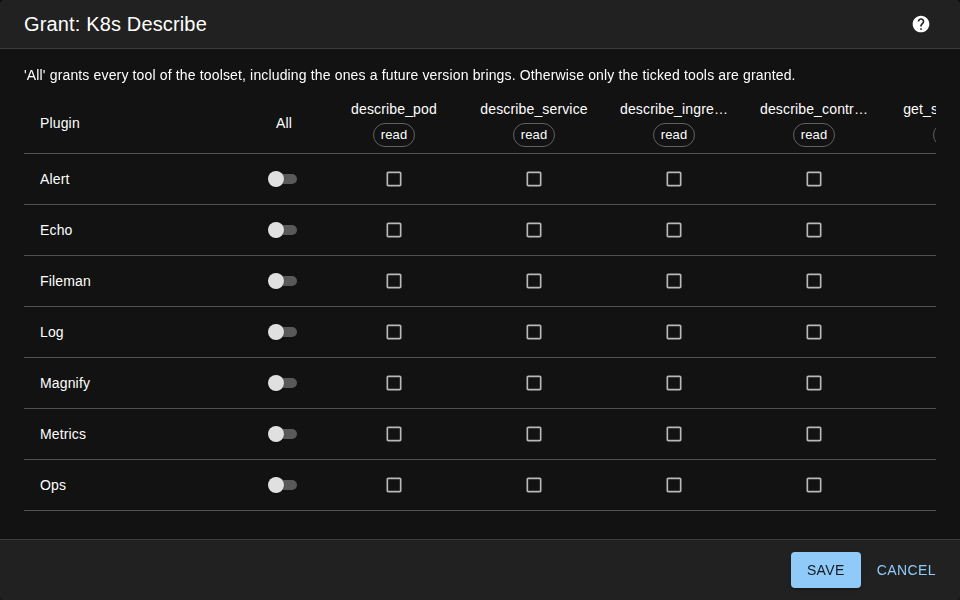
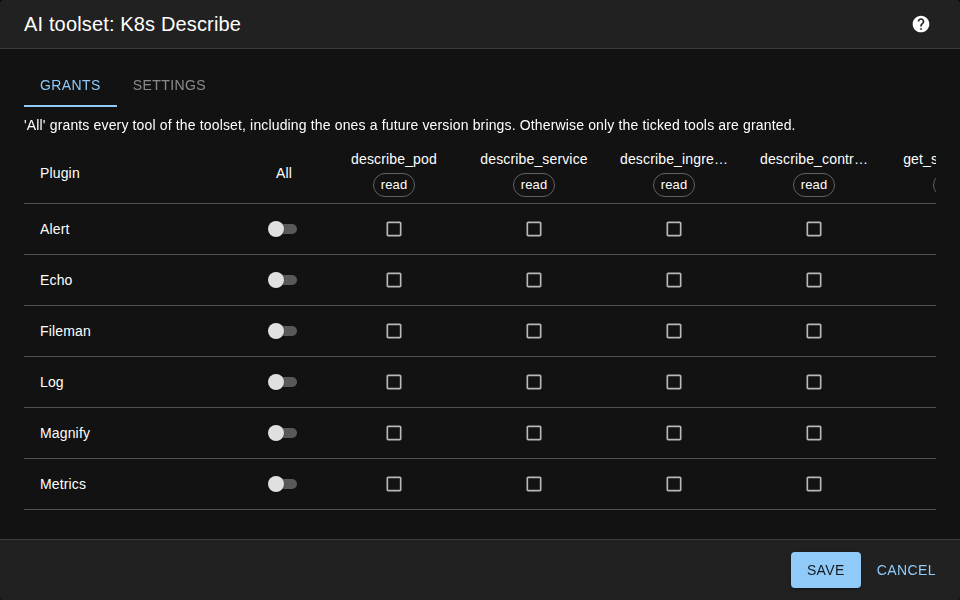
docs(core,tools): extension config — toolset settings, keep-on-uninstall, validation, uniform export; the toolset scaffold shows configSchema

diff --git a/front/e2e/tests/capture-managers.spec.ts b/front/e2e/tests/capture-managers.spec.ts
@@ -1,5 +1,7 @@
 import { test, expect, Page, Locator } from '@playwright/test'
-import { readFileSync } from 'fs'
+import { readFileSync, mkdtempSync, writeFileSync } from 'fs'
+import { execFileSync } from 'child_process'
+import os from 'os'
 import path from 'path'
 import { login, clickExtensionMenuItem, dismissOpenDialogs, GUIDE_MEDIA, capturePedida } from './helpers'
 
@@ -246,4 +248,64 @@ test('capture extension tags filter (dark, solo catalogo publico)', async ({ pag
 
     const restored = (await readSettings(page, s)).marketplaces ?? []
     expect(JSON.stringify(restored)).toBe(JSON.stringify(original))
+})
+
+/*
+    The AI toolset's SETTINGS tab (plans/extension-config, S9). No published toolset declares settings yet,
+    so a neutral one written here —the guide's own example, 'My Deployer'— is uploaded, shot with sample
+    values (nothing saved: Cancel) and uninstalled with its configuration. The environment is left as found.
+*/
+const SETTINGS_FILE = 'aitoolset-settings.png'
+const SETTINGS_ID = 'my-deployer'
+
+const settingsToolsetTgz = (): string => {
+    const dir = mkdtempSync(path.join(os.tmpdir(), 'kwirth-capture-ts-'))
+    writeFileSync(path.join(dir, 'package.json'), JSON.stringify({ id: SETTINGS_ID, name: '@acme/kwirth-aitoolset-my-deployer', displayName: 'My Deployer', version: '0.1.0', description: 'Deploys images to the configured namespace', extensionType: 'aitoolset' }))
+    writeFileSync(path.join(dir, 'back.js'), `module.exports.default = {
+        id: '${SETTINGS_ID}', version: '0.1.0', displayName: 'My Deployer', description: 'Deploys images to the configured namespace', requires: [],
+        configSchema: [
+            { name: 'namespace', label: 'Target namespace', required: true, default: 'apps' },
+            { name: 'mode', label: 'Mode', type: 'select', options: ['plan', 'apply'], default: 'plan' },
+            { name: 'registryToken', label: 'Registry token', type: 'password' }
+        ],
+        tools: [{ name: 'deploy', description: 'Deploys an image', effect: 'write', sensitivity: 'internal', inputSchema: {}, execute: async () => ({}) }]
+    }`)
+    const tgz = `${dir}.tgz`
+    execFileSync('tar', ['-czf', tgz, '-C', dir, '.'])
+    return readFileSync(tgz).toString('base64')
+}
+
+test('capture AI toolset settings tab (dark)', async ({ page }) => {
+    test.skip(!pedida(SETTINGS_FILE), 'not asked for')
+    await page.setViewportSize({ width: 1600, height: 900 })
+    await page.addInitScript(() => { try { localStorage.setItem('kwirth.mode', 'dark') } catch { /* */ } })
+    const s = await captureSession(page)
+    const installed = await page.evaluate(async ([b, a]) => (await (await fetch(`${b}/core/aitoolsets`, { headers: { Authorization: a } })).json() as { id: string }[]).map(t => t.id), [s.backend, s.auth])
+    expect(installed, `'${SETTINGS_ID}' must not be installed before`).not.toContain(SETTINGS_ID)
+    const up = await page.evaluate(async ([b, a, data]) => {
+        const bytes = Uint8Array.from(atob(data), c => c.charCodeAt(0))
+        return (await fetch(`${b}/core/aitoolsets/upload`, { method: 'POST', headers: { Authorization: a, 'Content-Type': 'application/octet-stream' }, body: bytes })).status
+    }, [s.backend, s.auth, settingsToolsetTgz()])
+    expect(up).toBe(200)
+    try {
+        await clickExtensionMenuItem(page, 'AI toolsets')
+        const manager = page.getByRole('dialog').filter({ hasText: /Manage AI toolsets/i })
+        await manager.waitFor({ timeout: 20000 })
+        await manager.getByPlaceholder('Filter…').first().fill('My Deployer')
+        await page.waitForTimeout(400)
+        await manager.locator('span[aria-label="Configure"] button').first().click()
+        const dlg = page.getByRole('dialog').filter({ hasText: 'AI toolset: My Deployer' })
+        await dlg.waitFor({ timeout: 20000 })
+        await dlg.getByRole('tab', { name: 'Settings', exact: true }).click()
+        await dlg.getByLabel(/^Target namespace/).fill('payments')
+        await dlg.getByLabel(/^Registry token/).fill('example-token')
+        await page.mouse.move(0, 0)
+        await page.waitForTimeout(800)
+        await dlg.screenshot({ path: `${MEDIA}/${SETTINGS_FILE}` })
+        await dlg.getByRole('button', { name: 'Cancel' }).click()
+        await dismissOpenDialogs(page)
+    }
+    finally {
+        await page.evaluate(async ([b, a, id]) => { await fetch(`${b}/core/aitoolsets/${id}?deleteConfig=true`, { method: 'DELETE', headers: { Authorization: a } }) }, [s.backend, s.auth, SETTINGS_ID])
+    }
 })

diff --git a/front/src/components/extensions/AiToolsetDialog.tsx b/front/src/components/extensions/AiToolsetDialog.tsx
@@ -1,6 +1,6 @@
 import React, { useContext, useEffect, useState } from 'react'
 import {
-    Box, Button, Checkbox, Chip, CircularProgress, Dialog, DialogActions, DialogContent, Switch, Tab, Table, TableBody,
+    Box, Button, Checkbox, Chip, CircularProgress, Dialog, DialogActions, DialogContent, Stack, Switch, Tab, Table, TableBody,
     TableCell, TableContainer, TableHead, TableRow, Tabs, Tooltip, Typography
 } from '@mui/material'
 import { DialogTitleHelp, docsUrl } from '@kwirthmagnify/kwirth-common-front'
@@ -277,10 +277,11 @@ const AiToolsetDialog: React.FC<IAiToolsetDialogProps> = (props: IAiToolsetDialo
 
                 {/* SETTINGS: a column of fixed width that scrolls inside */}
                 <Box sx={{ flex: 1, minHeight: 0, overflow: 'auto', display: loading || tab !== EAiToolsetDialogTab.SETTINGS ? 'none' : 'block' }}>
-                    <Box sx={{ width: SETTINGS_COL_WIDTH, maxWidth: '100%', pt: 1 }}>
+                    {/* a Stack, as in ConfigFormDialog: ConfigFields hands its fields loose and the spacing is the caller's */}
+                    <Stack spacing={2} sx={{ width: SETTINGS_COL_WIDTH, maxWidth: '100%', pt: 1 }}>
                         <ConfigFields schema={schema} values={settings} onChange={setSetting} invalidFields={fieldErrors.map(e => e.field)} />
                         { fieldErrors.length > 0 && <Typography variant='caption' color='error' data-testid='config-field-errors'>{fieldErrors.map(e => e.message).join('. ')}</Typography> }
-                    </Box>
+                    </Stack>
                 </Box>
 
                 { error && <Typography color='error' variant='body2' sx={{ mt: 1 }}>{error}</Typography> }

diff --git a/docs/0.6.31/guide/extensions/aitoolsets/index.md b/docs/0.6.31/guide/extensions/aitoolsets/index.md
@@ -56,7 +56,8 @@ execute: async (args, host) => {
 
 | Declared | The tool receives |
 |---|---|
-| *(nothing)* | `host.trace` only |
+| *(nothing)* | `host.trace` and `host.config` only |
+| `configSchema` (not a capability) | `host.config` — the toolset's **settings** as the admin saved them, defaults applied; `{}` when it declares none. See [Settings](#settings-how-the-toolset-behaves-here) |
 | `ECapability.K8S` | `host.k8s` — cluster name, flavour, vCPUs, memory, the node map, and the `CoreV1Api`, `AppsV1Api` and `NetworkingV1Api` clients |
 | `ECapability.METRICS` | `host.metrics` — the metric samples kwirth keeps in memory |
 | `ECapability.EVENTS` | `host.events` — the recent cluster-event buffer |
@@ -103,7 +104,7 @@ the common flow. Three details are specific to this family:
 |---|---|
 | **tools chip** | How many tools the toolset actually **brought into the running core**, not how many its package claims. A toolset whose code failed to load shows **no** chip rather than an inflated number. |
 | **plugins chip** | How many plugins are granted **at least one** of its tools — `No plugin` when nobody is. A plugin whose grant was emptied does not count. |
-| **⚙ settings** | Opens the toolset's **grant**: which plugins may use it, and which of its tools each one (see [Granting](#granting-installing-is-not-giving)). It is the only decision taken here. *Which* of the granted toolsets a channel actually uses, in what order, and which tools it switches off, is decided per channel. |
+| **⚙ settings** | Opens the toolset's dialog, **AI toolset: *name***, with two tabs: **Grants** — which plugins may use it, and which of its tools each one (see [Granting](#granting-installing-is-not-giving)) — and **Settings** — how the toolset behaves in this installation (see [Settings](#settings-how-the-toolset-behaves-here)). *Which* of the granted toolsets a channel actually uses, in what order, and which tools it switches off, is decided per channel. |
 
 Installing from a URL or a local file works exactly as in the other families: paste the package URL and click
 ⬇, or use **Browse…** to upload a `.tgz`.
@@ -126,10 +127,11 @@ the fact rather than failing silently.
 > to answer in seconds, and here you answer it by looking at **who has been granted `k8s-ops`** — one line,
 > one dialog. That is why the grants are held per toolset and not scattered across each channel's settings.
 
-### The grant dialog
+### The Grants tab
 
 ![AI toolset grant](../../../_media/guide/aitoolset-grant.png)
-*One row per installed plugin, one column per tool of the toolset, each with its effect (`read` / `write`).*
+*The toolset's dialog opens on **Grants**: one row per installed plugin, one column per tool of the toolset,
+each with its effect (`read` / `write`).*
 
 For each plugin you choose one of two ways of granting:
 
@@ -148,7 +150,8 @@ in the same toolset, and the grant tells them apart.
   can still be taken away.
 - If a new version of the toolset drops or renames a tool that was granted, it appears in a column of its own,
   struck through and marked *removed*: it is ignored while it is there, and saving removes it from the grant.
-- Nothing is applied until **Save**; **Cancel** leaves the grant as it was.
+- Nothing is applied until **Save**; **Cancel** leaves the grant as it was. Save and Cancel cover **both**
+  tabs: one Save stores what changed in Grants and in Settings, one Cancel discards both.
 
 Three consequences worth knowing before you grant:
 
@@ -158,16 +161,54 @@ Three consequences worth knowing before you grant:
   upgrade is usually a plugin whose grants nobody has set.
 - **Revoking is immediate and needs no restart.** Take the grant away and the next bot run is offered fewer
   tools. Nothing is cached behind your back.
-- **Updating a toolset keeps its grants; uninstalling clears them.** Installing a newer version of a toolset
-  —or rebuilding one you are developing— leaves untouched who may use it: the grant belongs to the toolset
-  *id*, not to the version you happened to install. Only a plugin granted with **All** picks up the tools
-  the new version adds. Uninstalling is the opposite and does clear it, so that installing something again
-  later never resurrects permissions nobody re-granted.
+- **Updating a toolset keeps its grants.** Installing a newer version of a toolset —or rebuilding one you
+  are developing— leaves untouched who may use it: the grant belongs to the toolset *id*, not to the version
+  you happened to install. Only a plugin granted with **All** picks up the tools the new version adds.
+- **Uninstalling keeps them too, unless you ask.** The uninstall confirmation carries the box **Also delete
+  its configuration**, unticked. Left unticked, the toolset's grants **and** its settings are kept: while it
+  is not installed nobody can use it, and installing it again brings both back exactly as they were. Ticked,
+  both are deleted, and a later install starts as a first one — granted to nobody, settings at their
+  defaults. Tick it when you are removing a toolset for good, so that installing it again some day does not
+  hand its tools back to the plugins that had them.
 
 > ⚠ **Upgrading from a Kwirth with whole-toolset grants.** Grants used to be *toolset → plugins*, with no
 > choice of tools. That format is **not** migrated: after the upgrade every toolset reads **No plugin** and
 > AI channels have no tools until you grant them again in this dialog. The core logs a warning for each
 > grant it discarded.
+
+## Settings: how the toolset behaves here
+
+Some toolsets need to know something about **this installation** before their tools are useful — which
+namespace they may deploy to, whether they only plan or also apply, a token for a service they call. That
+is the toolset's **settings**: **one** configuration per installed toolset, global to the whole Kwirth, the
+same for every plugin it is granted to.
+
+![AI toolset settings](../../../_media/guide/aitoolset-settings.png)
+*The **Settings** tab draws the fields the toolset declares, with their defaults until you save anything.*
+
+- **What you see is what the toolset declares.** The form is built from the toolset's own list of settings,
+  with the same kinds of field as every other configuration in Kwirth — text, numbers, switches, lists,
+  passwords. A toolset that declares none shows the tab **greyed out**, and hovering it says *"This
+  toolset declares no settings"*.
+- **Never saved means the defaults.** Until you save, the tools work with the defaults the toolset declares,
+  and the form shows them.
+- **Passwords and tokens come back as they are**, masked: the eye shows the value already saved, so you
+  can check it without typing it again.
+- **Required fields.** While one is empty, **Save** stays greyed out and its tooltip names the fields that
+  are missing. Anything else the toolset refuses is marked in red on its field, the tab reads
+  **Settings (errors)**, and the dialog stays open so you can fix it. Nothing is stored until it fits.
+- **It applies at once.** The tools read their settings on **every** call: what you save is in force from
+  the next one, without restarting anything.
+
+> ⚠ **Settings are not a security control.** They tell a well-behaved toolset how to behave, and it is the
+> toolset that applies them. What does not depend on how a toolset was written is the **grant**: if a plugin
+> must not change your cluster, do not grant it the tools that do — do not rely on a setting saying
+> *"plan only"*.
+
+The settings are kept in **one Secret per toolset** (`kwirth-aitoolset-<id>-config`), the way every other
+extension keeps its configuration. They travel in **☰ Kwirth export** next to the toolset's grants, with the
+passwords emptied unless you include credentials. Uninstalling keeps them unless you tick **Also delete its
+configuration** (see [above](#granting-installing-is-not-giving)).
 
 ## Where tools are switched on
 
@@ -276,6 +317,48 @@ export default myToolset
 The `description` of each tool is not decoration: it is what the **model** reads to decide whether to call the
 tool, so write it for the model, not for a developer.
 
+### Settings: `configSchema` and `host.config`
+
+A toolset that needs settings declares them in `configSchema`, with the same field definitions
+(`IConfigFieldDef`) every Kwirth extension uses, and each tool reads them from `host.config`:
+
+```ts
+const myToolset: IAiToolset = {
+    id: 'my-deployer',
+    // ...
+    requires: [ECapability.K8S],
+    configSchema: [
+        { name: 'namespace', label: 'Target namespace', required: true, default: 'apps' },
+        { name: 'mode', label: 'Mode', type: 'select', options: ['plan', 'apply'], default: 'plan' },
+        { name: 'registryToken', label: 'Registry token', type: 'password' }
+    ],
+    tools: [
+        defineTool({
+            name: 'deploy',
+            description: 'Deploys an image to the configured namespace.',
+            effect: EToolEffect.WRITE,
+            sensitivity: EToolSensitivity.INTERNAL,
+            inputSchema: z.object({ image: z.string() }),
+            execute: async (args, host) => {
+                const namespace = String(host.config.namespace)     // what the admin saved, or the default
+                if (host.config.mode !== 'apply') return { plan: `would deploy ${args.image} to ${namespace}` }
+                // ... apply it
+            }
+        })
+    ]
+}
+```
+
+- `host.config` is **always there**: the saved values with the defaults applied, or `{}` when the toolset
+  declares no `configSchema`. Like `trace`, it is not a capability and needs no `requires`.
+- It is read on **every** call, so the tool must not cache it: what the admin saves applies from the next one.
+- Each call gets its **own copy**: a tool that changes it changes nothing for the next one.
+- What does not fit the schema is refused when saving, so a tool can rely on required fields being there.
+  Still, read them defensively: a newer toolset version may add a field that an older saved configuration
+  does not have yet — that is what `default` is for.
+- Mark secrets as `type: 'password'` (or `secret: true` on a multi-line field): the dialog masks them and
+  ☰ Kwirth export empties them unless credentials are included.
+
 Common packages (`kwirth-common`, `kwirth-common-ai`, `zod`) must **not** be bundled — the core serves them
 through its back global, so that the toolset uses exactly the same registry and the same `zod` as kwirth
 itself.
@@ -294,6 +377,17 @@ Point `kwirth-dev.json` at the build folder, as with any other extension:
 
 A toolset loaded this way shows a **`dev`** badge, cannot be uninstalled from the manager (the file governs it,
 not the dialog), and disappears when you remove it from `kwirth-dev.json` and restart the core.
+
+Its settings can be given in the same file, with `${VAR}` replaced from the environment. They live in memory
+only, **win over** whatever was saved from the dialog, and are never written anywhere:
+
+```json
+{
+    "aitoolsetConfigs": {
+        "my-deployer": { "namespace": "dev-apps", "mode": "apply", "registryToken": "${REGISTRY_TOKEN}" }
+    }
+}
+```
 
 ## Available toolsets
 

diff --git a/docs/0.6.31/changelog.md b/docs/0.6.31/changelog.md
@@ -18,6 +18,11 @@ Minor but powerful features:
   - **Metrics and events leave the core.** The **Metrics** channel is now a plugin, and the **Metrics** and **Events** providers are installable extensions (`@kwirthmagnify/kwirth-provider-metrics`, `@kwirthmagnify/kwirth-provider-events`). Both come installed in the `-readonly` / `-full` images and the desktop, the plugins that live on them declare them as requirements, and Magnify says so in its overview when one is missing instead of drawing nothing. In a cluster the core no longer carries any provider of its own.
   - **Providers can be read, not only subscribed to**: `IProvider.getData(request)` (with `getDataHelp()` describing the request), asked through the provider handle. Magnify reads its events feed this way. `kwirth-common-back` also gains `createResourceWatcher`, the reconnecting Kubernetes watch the events provider uses.
   - **More of the core in the common packages**, ahead of Magnify becoming a plugin. `kwirth-common-back` (0.6.4) carries the cluster operations Magnify runs — scale, restart, cordon, drain, evict, a shell or a work pod on a node, cron jobs, the default IngressClass, purging an image from every node — and `kwirth-common-front` (0.5.66) the icon of every Kubernetes kind (`getIconFromKind`) and the safe way to draw a channel's icon or open another channel (`getChannelIconSafe`, `getChannelIconOf`, `createChannelInstance`). Any extension can use them, and at runtime they are the core's copy, so nothing is bundled twice.
+  - **One configuration store for every extension.** Plugins, providers, routers, logins, identity providers, senders, webhooks and AI toolsets keep their configuration the same way: **one Kubernetes Secret per extension** (`kwirth-<type>-<id>-config`), all of it, not only the passwords. What is saved is **checked against what the extension declares**: while a required field is empty **Save** stays greyed out and says which, and anything else refused is marked in red on its field, with nothing stored. ⚠ No migration: configuration saved by an older kwirth in the old ConfigMaps (and the shared `kwirth-idps`, `kwirth-sender-configs`, `kwirth-webhook-configs`) is not read; enter it again or bring it with *Kwirth import*. `kwirth-common` brings `IConfigValidationError`, `applyConfigDefaults`, `pruneConfig` and `validateConfig`. See [Extending kwirth](guide/admin/08-extending-kwirth?id=install-configure-remove).
+  - **Uninstalling keeps the configuration unless you ask.** The uninstall confirmation of every family that keeps one carries **Also delete its configuration**, unticked: left so, reinstalling the extension later finds its configuration as it was — a webhook keeps its URLs, an AI toolset its settings **and its grants** (it used to lose the grants). The API takes `?deleteConfig=true`.
+  - **Webhooks keep a base configuration.** The common fields a webhook declares are stored (they were lost) and reach the webhook with each of its configurations; saving the base keeps every URL.
+  - **Kwirth export, the same for every family.** Without credentials, secrets are emptied in every family — providers and plugins included, which used to go out in clear. Routers and logins now travel too, and so does a webhook's base configuration. Only what was **saved** travels: an extension nobody configured carries nothing, not even its defaults.
+  - **AI toolset settings.** A toolset declares `configSchema` and the admin fills it in from a new **Settings** tab, beside **Grants**, in the toolset's dialog (**AI toolset: *name***) — one Save for both. Every tool gets the values as `host.config` on **every** call, so a change applies from the next one without a restart; `kwirth-dev.json` takes `aitoolsetConfigs`. Settings are not a security control: the grant is. `kwirth-common-ai` (0.5.81) brings `IAiToolsetInfo.configSchema`, `IToolHost.config` and `TAiToolsetConfig`. See [AI toolsets](guide/extensions/aitoolsets/index?id=settings-how-the-toolset-behaves-here).
 
   - Pinocchio is now running working with several LLM's through [AI-SDK from Vercel](https://ai-sdk.dev/docs/introduction). It has been tested with OpenRouter, Gemini and Groq. This very first version just audits Kubernetes objects upon creation, but only for information.
   - Improved channel management on front (now added 'cluster' view again).

diff --git a/docs/0.6.31/guide/admin/08-extending-kwirth.md b/docs/0.6.31/guide/admin/08-extending-kwirth.md
@@ -66,7 +66,11 @@ Every family uses the same manager UI, so once you learn one you know them all:
 ## Install, configure, remove
 
 1. **Install** — from **Available** click an item, or paste its URL / **BROWSE…** a file under **Install**.
-2. **Configure** — click **⚙ Settings** on the card. What opens depends on what the extension declares: a **typed form** (one set of fields), a **list of named configurations** (several destinations, several accounts — with a shared *base configuration* when the extension has settings common to all of them, and export/import to carry them to another kwirth), a **JSON editor**, or a **UI the extension provides itself**. If the gear is **greyed out**, that extension has nothing to configure — it is not a failure. Configuration (including secrets, shown masked behind an eye toggle) is stored in Kubernetes secrets/configmaps.
+2. **Configure** — click **⚙ Settings** on the card. What opens depends on what the extension declares: a **typed form** (one set of fields), a **list of named configurations** (several destinations, several accounts — with a shared *base configuration* when the extension has settings common to all of them), a **JSON editor**, or a **UI the extension provides itself**. If the gear is **greyed out**, that extension has nothing to configure — it is not a failure.
+
+   Wherever it is edited, an extension's configuration is kept in **one Kubernetes Secret per extension**, named `kwirth-<type>-<id>-config` — all of it, not only the passwords, because any field can turn out to be a credential. Secrets come back into the form as they are, masked behind an **eye** toggle, so you can check them without typing them again. To carry configuration to another kwirth, use **☰ Kwirth export** (see [Initial configuration](02-initial-config)).
+
+   **What is saved is checked first.** Every form is checked against what the extension declares: while a **required** field is empty, **Save** stays greyed out and its tooltip names the fields that are missing; anything else the extension refuses — a value outside its list, text where a number goes — is marked in **red** on its field, with the reason underneath, and the dialog stays open. Nothing is stored until it fits.
 
    Two things you will meet in that typed form:
 
@@ -84,7 +88,11 @@ Every family uses the same manager UI, so once you learn one you know them all:
      still counts.
 3. **Enable / disable** — many extensions have an enabled toggle in their settings; disabled ones stay installed but inactive.
 4. **Update** — click the **⬆** icon on the card when it offers a newer version. See below: it is not a reinstall, and it keeps your configuration.
-5. **Remove** — click the delete icon on the card.
+5. **Remove** — click the delete icon on the card. For the families that keep a configuration — plugins, providers, routers, logins, identity providers, senders, webhooks and AI toolsets — the confirmation carries a box, **Also delete its configuration**, **unticked**:
+   - **Unticked** (the default): the extension goes, but its configuration Secret **stays**. Installing the same extension again later picks it up exactly as it was — a sender with its destinations, a webhook with the **same URLs** (nothing to paste again at the system that calls it), an AI toolset with its settings and its grants.
+   - **Ticked**: the configuration is deleted with it, and a later install starts from scratch. Tick it when you are removing an extension for good.
+
+   A pack's confirmation carries the same box, and it applies to every member the pack removes. The families with nothing to keep (themes, homepages, documentation, DCEs) do not show it.
 
 > **Channels are plugins.** Installing a plugin is exactly how you add or remove the channels users see in the [resource selector](../user/04-selecting-resources). Install the Log plugin and the **Log** channel appears; remove it and it's gone.
 

diff --git a/docs/0.6.31/guide/admin/02-initial-config.md b/docs/0.6.31/guide/admin/02-initial-config.md
@@ -152,11 +152,11 @@ With **SQL configured**, the counters are in the database and survive a restart.
 
 It carries kwirth's own settings — metrics interval, log levels, marketplaces and package registries — the shared AI providers and models, and **what each extension stores**: its rules, its connections, whatever it considers its own configuration. Kwirth does not look inside: each extension decides what of its own travels, which is why an extension that has not adopted that contract yet appears in the list with the reason instead of silently going missing.
 
-An extension's entry actually has **two halves**, and it is worth knowing which is which. One is what *kwirth* keeps about it — the configuration you edit from its **Configure** cog, a sender's sending configurations, an identity connector's instances — and the other is what the *extension* keeps on its own account, in its own store. Most of the first half travels from the day an extension is installed, without its author having done anything; the second only travels if the extension implements it.
+An extension's entry actually has **two halves**, and it is worth knowing which is which. One is what *kwirth* keeps about it — the configuration you edit from its **Configure** cog (plugins, providers, routers and logins alike), a sender's or webhook's named configurations together with their shared base, an identity connector's instances, an AI toolset's grants and settings — and the other is what the *extension* keeps on its own account, in its own store. Most of the first half travels from the day an extension is installed, without its author having done anything; the second only travels if the extension implements it. Of the first half, only what was **saved** travels: an extension nobody configured carries nothing, not even its defaults, so importing never configures at the destination something nobody configured at the source.
 
 That split is why some entries appear in **amber**, saying that only their installation configuration will travel. It means kwirth has the first half and could not ask for the second, because that extension is not running in this installation — a channel hosted by a *different* kwirth, or a provider that nothing is using here. The entry is still exported, because leaving it out would lose the half kwirth does have, but the file will not say what is missing from it. So the warning is shown **before** you export, not after.
 
-Credentials are **left out unless you tick them**. A file with tokens and passwords inside ends up in somebody's downloads folder, so by default the secret fields travel **empty** rather than omitted — the destination can then see which ones it has to fill in. Note what that means for the AI entries, where the secret is the whole point of some of them: leaving the tick off never removes a provider or a model from the file, it only blanks its key. Everything else — the name, the type, the Base URL, the default costs, the usage limits — travels either way.
+Credentials are **left out unless you tick them**. A file with tokens and passwords inside ends up in somebody's downloads folder, so by default the secret fields travel **empty** rather than omitted — the destination can then see which ones it has to fill in. That holds for every kind of extension alike, the passwords of providers and plugins included. Note what that means for the AI entries, where the secret is the whole point of some of them: leaving the tick off never removes a provider or a model from the file, it only blanks its key. Everything else — the name, the type, the Base URL, the default costs, the usage limits — travels either way.
 
 This is the **only** way the AI providers and models move between installations: their dialogs have no import/export of their own, precisely so that there is a single door onto a single store.
 

diff --git a/docs/0.6.31/configportability.md b/docs/0.6.31/configportability.md
@@ -58,11 +58,17 @@ the core, and the extension never even sees it:
 
 | What | Who keeps it |
 |---|---|
-| A sender's or webhook's **send configurations** | the core |
+| A sender's or webhook's **named configurations**, and its shared **base configuration** | the core |
 | An identity provider's **configured instances** | the core |
-| An AI toolset's **grants** | the core |
-| A plugin's or provider's **installation configuration** | the core |
+| An AI toolset's **grants** and its **settings** | the core |
+| A plugin's, provider's, router's or login's **configuration** — what you edit from its ⚙ | the core |
 | Anything the extension stores on its own | the extension |
+
+Of the core's part, **only what was saved** travels. An extension nobody ever configured carries nothing,
+not even its defaults: importing defaults would *configure* it at the destination, and some extensions —
+a cloud provider, for instance — start connecting as soon as they are configured. A login carries only what
+the admin edited, not the defaults that come inside its package, so a newer package at the destination is
+not overridden by the old one's values.
 
 A sender cannot list its own configurations, and an IdP connector cannot enumerate its instances — one
 connector can have several, and each instance points at the connector, not the other way round. So the
@@ -74,7 +80,7 @@ database, in their own store — join in too, and then both halves travel togeth
 
 ## Exporting
 
-**Settings → Kwirth → Export.** You get one list with everything that can travel, all ticked:
+**☰ → Kwirth export.** You get one list with everything that can travel, all ticked:
 
 - **Settings** — metrics interval, marketplaces, package registries. These carry **what is on the form
   right now**, including changes you have not accepted yet.
@@ -110,13 +116,20 @@ The **Include credentials** box is **unticked by default**, and that is on purpo
 somebody's downloads folder.
 
 - **Unticked** — secret fields travel **empty**, not missing. The destination can therefore tell you
-  which ones need filling in.
+  which ones need filling in. This applies to every family alike — plugins, providers, routers, logins,
+  senders and webhooks (their base configuration and each named one), IdP instances and AI toolset
+  settings. What counts as secret is what the extension declares as such (a password, or a field marked
+  secret). An extension that declares nothing about its fields cannot say which of them is a password, so
+  its values **do not travel at all** without credentials, and importing the file says so.
+- ⚠ **Importing a file exported without credentials writes those fields empty.** What is in the file is
+  what gets saved: an empty password does not mean *"keep the one you have"*. To re-import onto the same
+  kwirth without losing secrets, export **with** credentials.
 - **Ticked** — tokens and passwords are written in clear text. The file declares in its metadata that it
   carries them, so whoever opens it later knows what they are holding. Treat it as a secret.
 
 ## Importing
 
-**Settings → Kwirth → Import**, pick the file, and before anything is touched kwirth shows you **what
+**☰ → Kwirth import**, pick the file, and before anything is touched kwirth shows you **what
 each line would do**:
 
 | Status | What happens |

diff --git a/plans/extension-config/PLAN.md b/plans/extension-config/PLAN.md
@@ -223,7 +223,7 @@ Orden pensado para que cada stream deje el sistema funcionando y se pueda valida
 | **S7. Export/import** ✅ | redacción en todas las familias; router y login en el bundle (si P1 = sí). Hecho: una sola redacción (`redactSecretFields`, ConfigFieldSecrets); plugin, provider, router y login comparten adaptador y viajan como `installConfig`, **solo lo guardado** (sin guardar no viaja nada, ni defaults; el de login, solo lo del admin, no `login.json`); sin esquema y sin credenciales → `omitted` + aviso al importar; un `saveConfig` que lanza es un aviso. El webhook viaja como `stored: {...base, configs}` y se siguen leyendo los ficheros con `configs` sueltos | unit de `CoreManagedConfig` por familia: con y sin credenciales, ida y vuelta | S2-S6 |
 | **S8. Toolsets: contrato y core** ✅ (common-ai 0.5.81; P5 = desinstalar sin la casilla conserva configuración Y concesiones, y reinstalar las devuelve; export `{ grants, config }` / `configOmitted`; `buildToolHost` gana un 4º parámetro `config`) | `configSchema`, `host.config`, `setToolsetConfig`, endpoints, ciclo de vida, `aitoolsetConfigs`, export. Publicar `kwirth-common-ai` (bbp) | unit: toolset sin esquema → `{}`; con esquema → defaults; guardar → la siguiente llamada ve el valor; desinstalar con `deleteConfig` borra configuración y concesiones, sin él las conserva (P5) | S1, S7 |
 | **S9. Toolsets: diálogo** ✅ | `AiToolsetDialog` con pestañas. Hecho: un solo Save (concesiones primero, luego settings); el tooltip de Settings deshabilitada va con `describeChild`, para que su nombre accesible siga siendo "Settings" | e2e: pestaña deshabilitada sin esquema; formulario, guardar, recargar; error de validación en el campo; concesiones como antes | S8 |
-| **S10. Documentación y scaffolder** | guía de toolsets (pestaña Settings, cómo declarar `configSchema` y leer `host.config`); capturas regeneradas; el scaffolder genera un `configSchema` de ejemplo comentado | revisión de la guía; build del scaffolder con y sin esquema | S9 |
+| **S10. Documentación y scaffolder** ✅ (además: P5, validación al guardar, export homogéneo y rutas ☰ de export/import en la guía del core; Save deshabilitado con obligatorios vacíos en TODOS los diálogos de configuración) | guía de toolsets (pestaña Settings, cómo declarar `configSchema` y leer `host.config`); capturas regeneradas; el scaffolder genera un `configSchema` de ejemplo comentado | revisión de la guía; build del scaffolder con y sin esquema | S9 |
 
 | **S11. Limpieza de los clusters** | en cada cluster con un Kwirth de dev, borrar los objetos huérfanos: `kwirth-provider-*-config`, `kwirth-plugin-*-config`, `kwirth-sender-configs`, `kwirth-webhook-configs` (ConfigMaps) y `kwirth-idps` (Secret) | listado de lo huérfano confirmado con el usuario antes de borrar; los `kwirth-<tipo>-<id>-config` de extensiones no instaladas se listan aparte como **configuración conservada** (P5), no como basura; después, cada familia sigue funcionando | S1-S10 |
 
